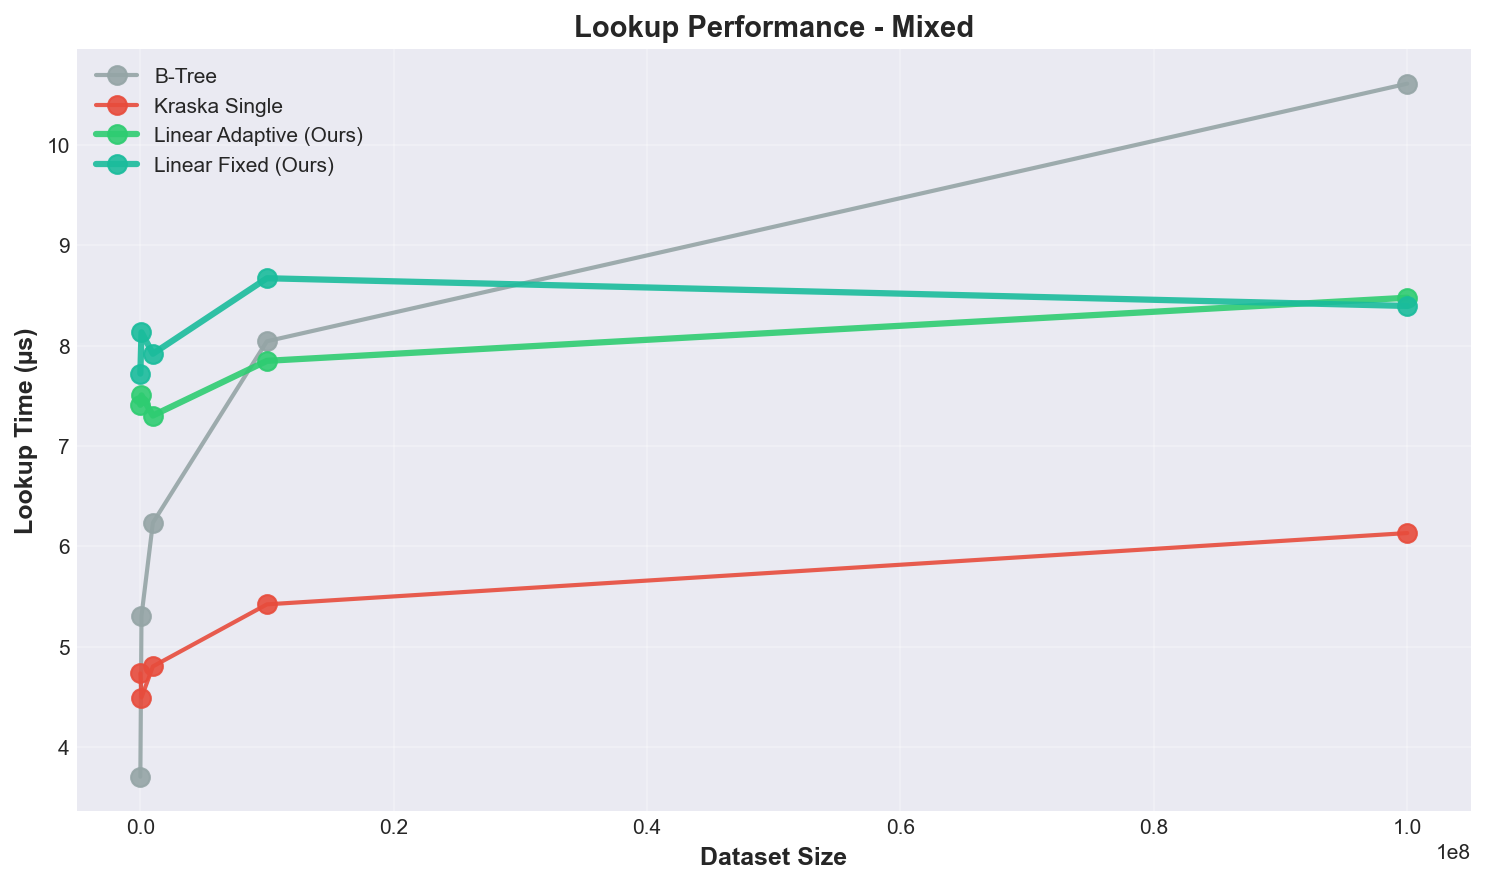
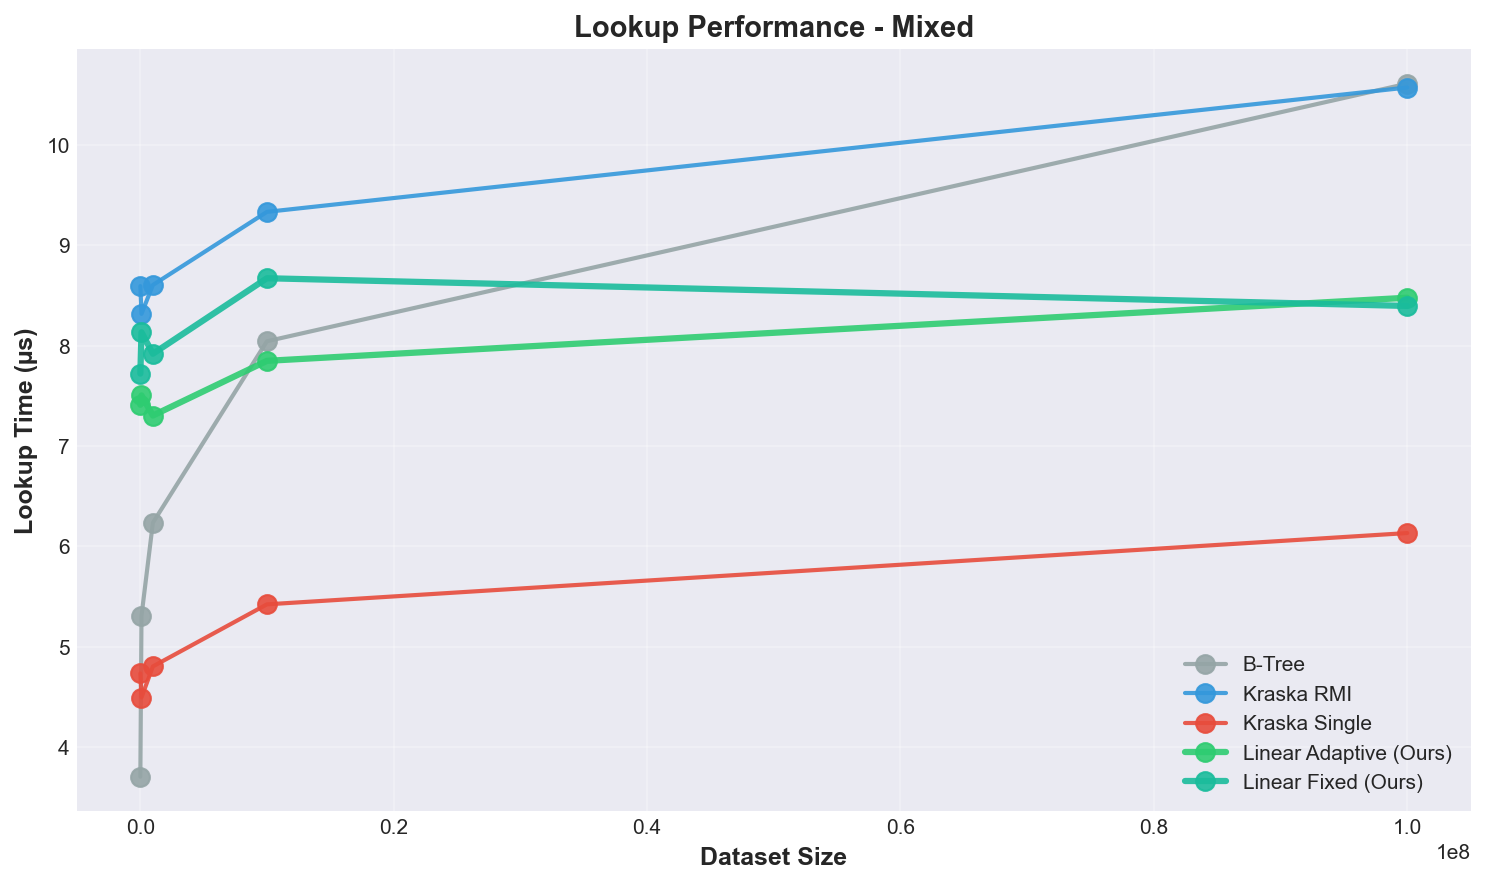
Fixed a issue with parameter not appearing on graphs

diff --git a/src/benchmarks/generate_graphs.py b/src/benchmarks/generate_graphs.py
@@ -129,11 +129,11 @@ def get_display_name(row):
             return "Kraska Single"
         return None  # Filter out polynomial
     
-    # Kraska RMI: Keep only [1,100] (paper default)
+    # Kraska RMI: Keep only [1, 100] (paper default)
     elif model == 'kraska_rmi':
-        if '[1,100]' in params:
+        if '[1, 100]' in params:
             return "Kraska RMI"
-        return None  # Filter out [1,10] and [1,1000]
+        return None  # Filter out [1, 10] and [1, 1000]
     
     # Your Linear Adaptive: Keep all (it's your model!)
     elif model == 'linear_adaptive':

diff --git a/src/benchmarks/benchmark.py b/src/benchmarks/benchmark.py
@@ -82,7 +82,7 @@ Testing across multiple sizes shows:
 Model-specific parameters follow.
 """
 
-DATASET_SIZES = [10_000, 100_000, 1_000_000, 10_000_000, 100_000_000]
+DATASET_SIZES = [10_000, 50_000, 100_000, 500_000, 1_000_000,]
 DISTRIBUTIONS = ["seq", "uniform", "mixed"]
 
 # B-Tree configurations (order = fanout)
@@ -106,7 +106,7 @@ KRASKA_RMI_CONFIGS = [
 ]
 
 # Statistical parameters
-REPEAT_CYCLES = 1  # Number of times to repeat each test
+REPEAT_CYCLES = 5  # Number of times to repeat each test
 RESULTS_DIR = "results/benchmarks"
 
 
